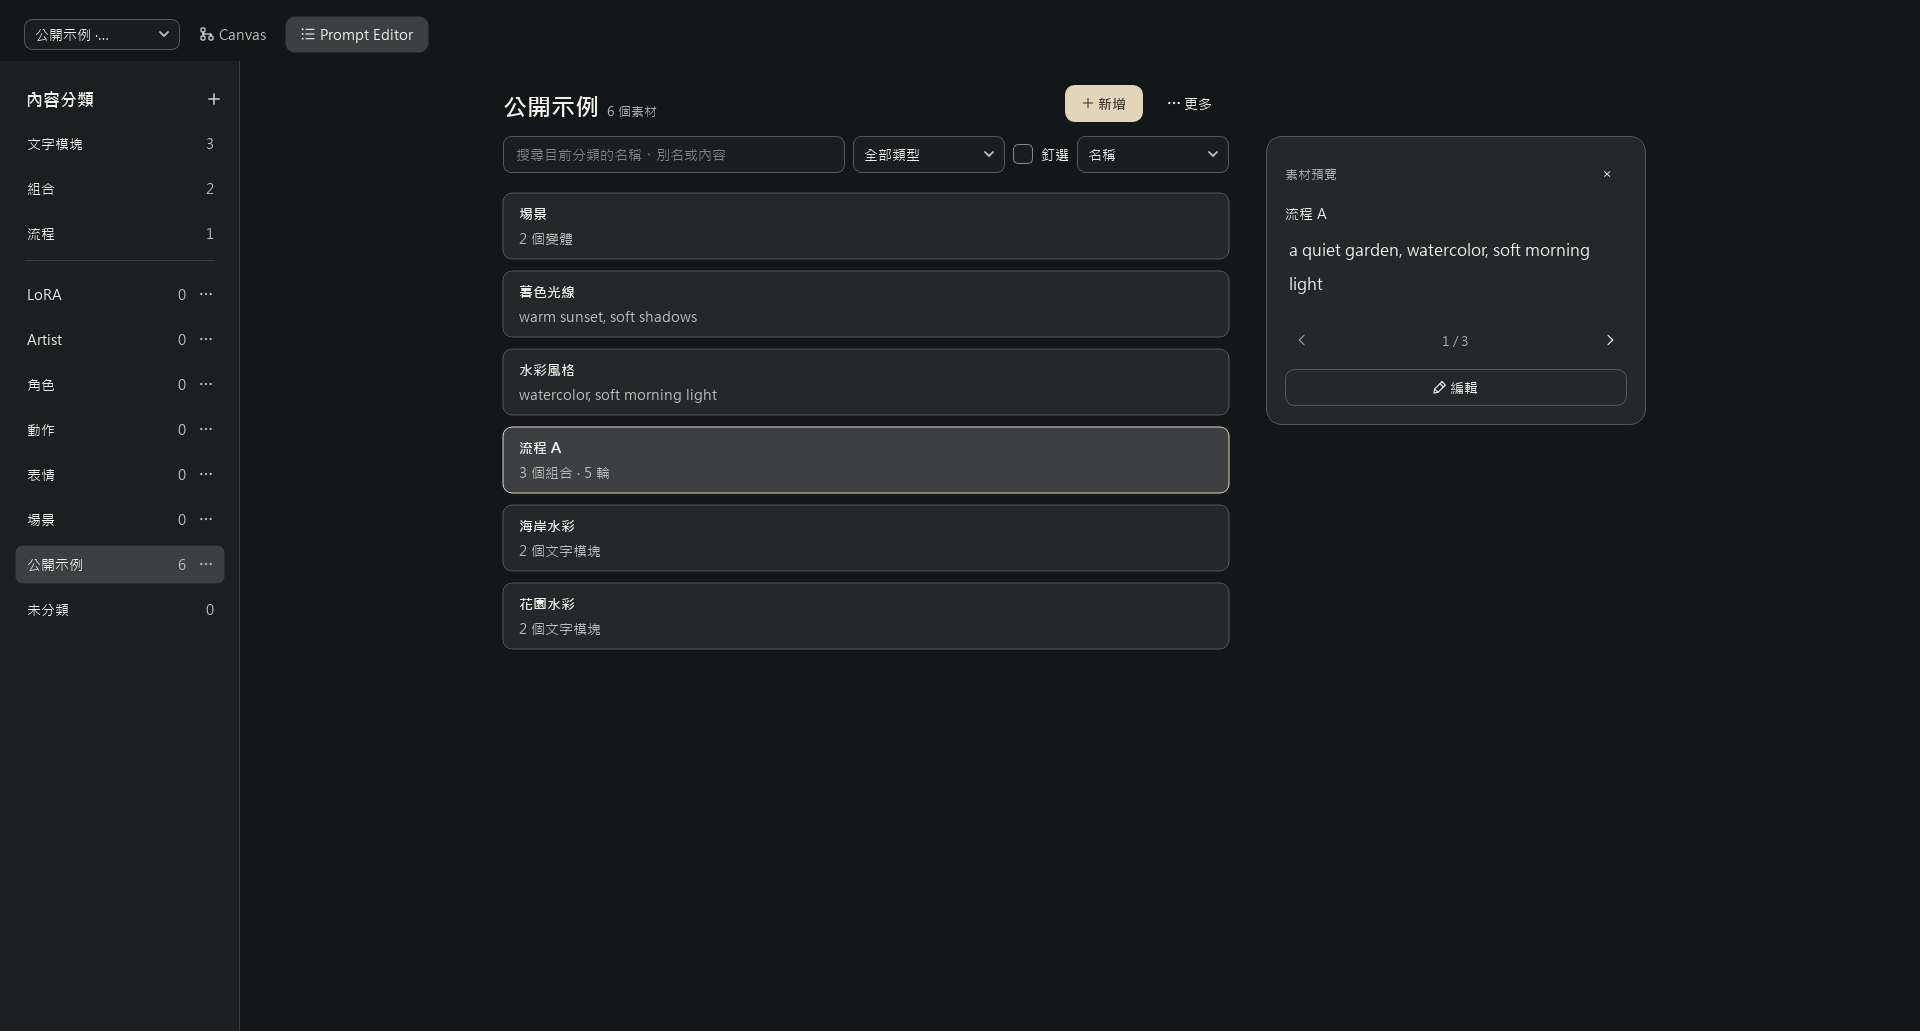
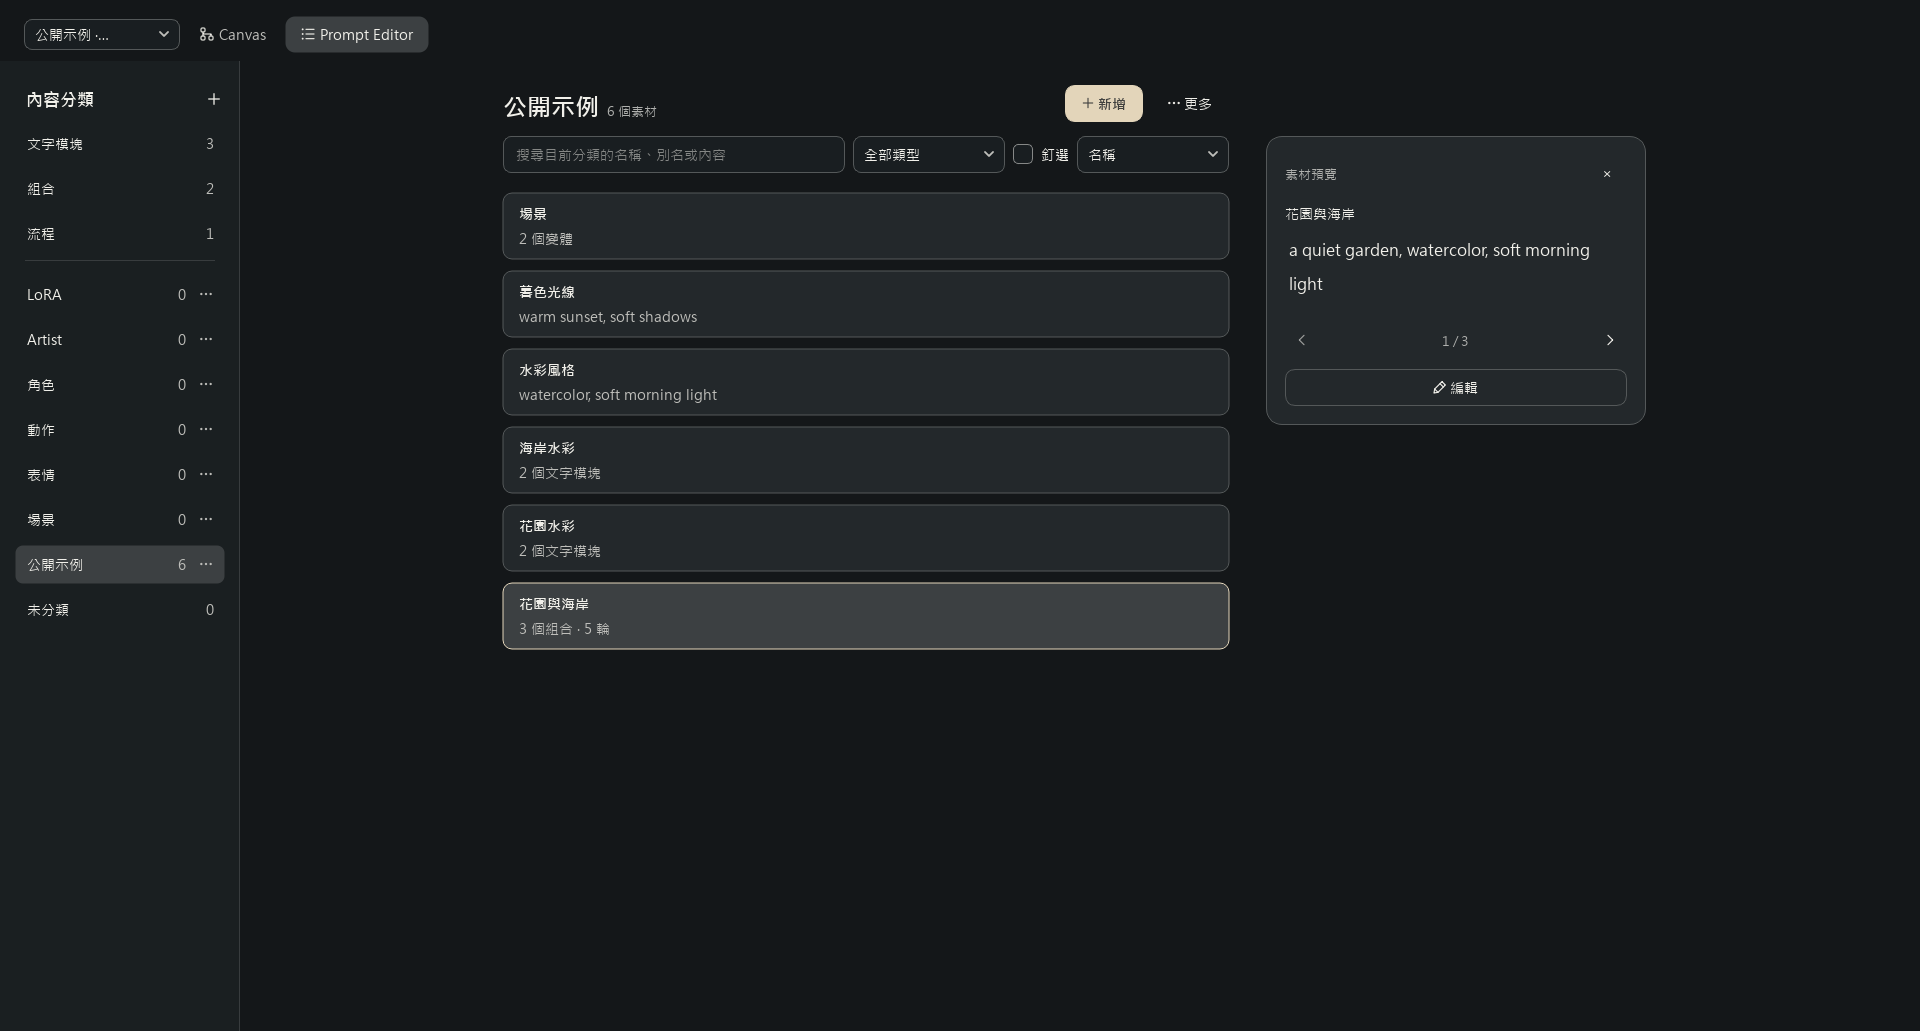
docs: clarify flow editing and material preview captions

Changed region(s): [[0.25, 0.5587, 0.6562, 0.6518], [0.25, 0.4035, 0.6562, 0.4966], [0.6562, 0.1862, 0.7188, 0.2173]]

diff --git a/docs/releases/0.8.8/validation/alpha.1.md b/docs/releases/0.8.8/validation/alpha.1.md
@@ -29,18 +29,18 @@
 
 ## 公開示例圖片
 
-2026-10-15 補充四張主要功能畫面，取自公開來源提交 `da13609a84ebc867ba083139aff3cc4e8d5b1c4e`，執行標題為 `Prompt Calculus Studio · v0.8.8 Alpha 1`。
+2026-10-15 補充四張主要功能畫面，取自公開來源提交 `32976d4b3a728dcdd97f294ebfdf22def499d02d`，執行標題為 `Prompt Calculus Studio · v0.8.8 Alpha 1`。
 
 | 圖片 | 尺寸 | SHA256 |
 |---|---|---|
[6 lines of base64/hex data omitted]
 
-使用實際 Qt 控件與 `QWidget.grab()` 離屏擷取，未重畫或修改圖片像素。Canvas 擷取整個視窗；功能模組頁擷取雙擊空白 Canvas 後開啟的選單面板；素材預覽擷取 Prompt Editor 頁面；流程 A 擷取點選預覽區「編輯」後的編輯面板。四圖已逐張檢視，文字與主要操作完整可見。
+使用實際 Qt 控件與 `QWidget.grab()` 離屏擷取，未重畫或修改圖片像素。Canvas 擷取整個視窗；功能模組頁擷取雙擊空白 Canvas 後開啟的選單面板；素材預覽擷取 Prompt Editor 頁面；流程編輯畫面擷取點選預覽區「編輯」後的編輯面板。四圖已逐張檢視，文字與主要操作完整可見。
 
-全新合成資料包含場景變體、文字、兩個組合及流程 A；流程 A 的三個組合分別重複 2／2／1 次。Canvas 只調整示例文件中的 CLIP 輸入與預排程位置，產品程式與預設布局未改。取圖使用 Microsoft JhengHei、實色材質，未讀取私人資料、連接 ComfyUI 或提交生成；網路／服務嘗試與 Qt 回呼例外均為零。圖片展示介面操作，沒有生成結果。
+全新合成資料包含場景變體、文字、兩個組合及「花園與海岸」示例流程；示例流程的三個組合分別重複 2／2／1 次。Canvas 只調整示例文件中的 CLIP 輸入與預排程位置，產品程式與預設布局未改。取圖使用 Microsoft JhengHei、實色材質，未讀取私人資料、連接 ComfyUI 或提交生成；網路／服務嘗試與 Qt 回呼例外均為零。圖片展示介面操作，沒有生成結果。
 
 首次發布的兩張圖片與當時取圖紀錄保留於 [v0.8.8-alpha.1 驗證紀錄](https://github.com/gghjkiof36-wq/Prompt-Calculus-Studio/blob/v0.8.8-alpha.1/docs/releases/0.8.8/validation/alpha.1.md#公開示例圖片)。
 

diff --git a/README.en.md b/README.en.md
@@ -30,15 +30,15 @@ Double-click an empty area of the Canvas to browse text, image and execution mod
 
 ### Preview materials in Prompt Editor
 
-Select a material to read its full Prompt and browse each combination in a flow.
+Double-click a material to view its full Prompt. You can add images related to the Prompt in the panel on the right.
 
 ![PCS 0.8.8 Preview materials in Prompt Editor](docs/images/prompt-editor-preview-0.8.8.png)
 
-### Edit Flow A
+### Edit flows
 
 Set combination order, the starting combination and repeat counts, then save the flow for reuse.
 
-![PCS 0.8.8 Edit Flow A](docs/images/prompt-editor-flow-a-0.8.8.png)
+![PCS 0.8.8 Edit flows](docs/images/prompt-editor-flow-edit-0.8.8.png)
 
 This release unifies selection and saved progress across text variants, combinations and flows. It adds clearer variant management and side pages, bound-input scheduling and independent image previews. It also fixes whole-workspace cancellation, migrated repeat progress, ordering across output switches, and unnecessary library content in generation snapshots. See the [full release notes](docs/releases/0.8.8/alpha.1.md) (Chinese).
 

diff --git a/docs/releases/0.8.8/alpha.1.md b/docs/releases/0.8.8/alpha.1.md
@@ -57,15 +57,15 @@
 
 ### Prompt Editor 預覽素材
 
-點選素材查看完整 Prompt；流程可逐一預覽各個組合。
+雙擊點選素材查看完整 Prompt，右側可以自行添加有關提示詞的圖片。
 
 ![PCS 0.8.8 Prompt Editor 預覽素材](../../images/prompt-editor-preview-0.8.8.png)
 
-### 編輯流程 A
+### 編輯流程
 
 設定組合順序、起始組合與重複次數，將流程保存成可重用素材。
 
-![PCS 0.8.8 編輯流程 A](../../images/prompt-editor-flow-a-0.8.8.png)
+![PCS 0.8.8 編輯流程](../../images/prompt-editor-flow-edit-0.8.8.png)
 
 ## 下載與啟動
 

diff --git a/README.md b/README.md
@@ -32,15 +32,15 @@
 
 ### Prompt Editor 預覽素材
 
-點選素材查看完整 Prompt；流程可逐一預覽各個組合。
+雙擊點選素材查看完整 Prompt，右側可以自行添加有關提示詞的圖片。
 
 ![PCS 0.8.8 Prompt Editor 預覽素材](docs/images/prompt-editor-preview-0.8.8.png)
 
-### 編輯流程 A
+### 編輯流程
 
 設定組合順序、起始組合與重複次數，將流程保存成可重用素材。
 
-![PCS 0.8.8 編輯流程 A](docs/images/prompt-editor-flow-a-0.8.8.png)
+![PCS 0.8.8 編輯流程](docs/images/prompt-editor-flow-edit-0.8.8.png)
 
 ## 這版更新
 
